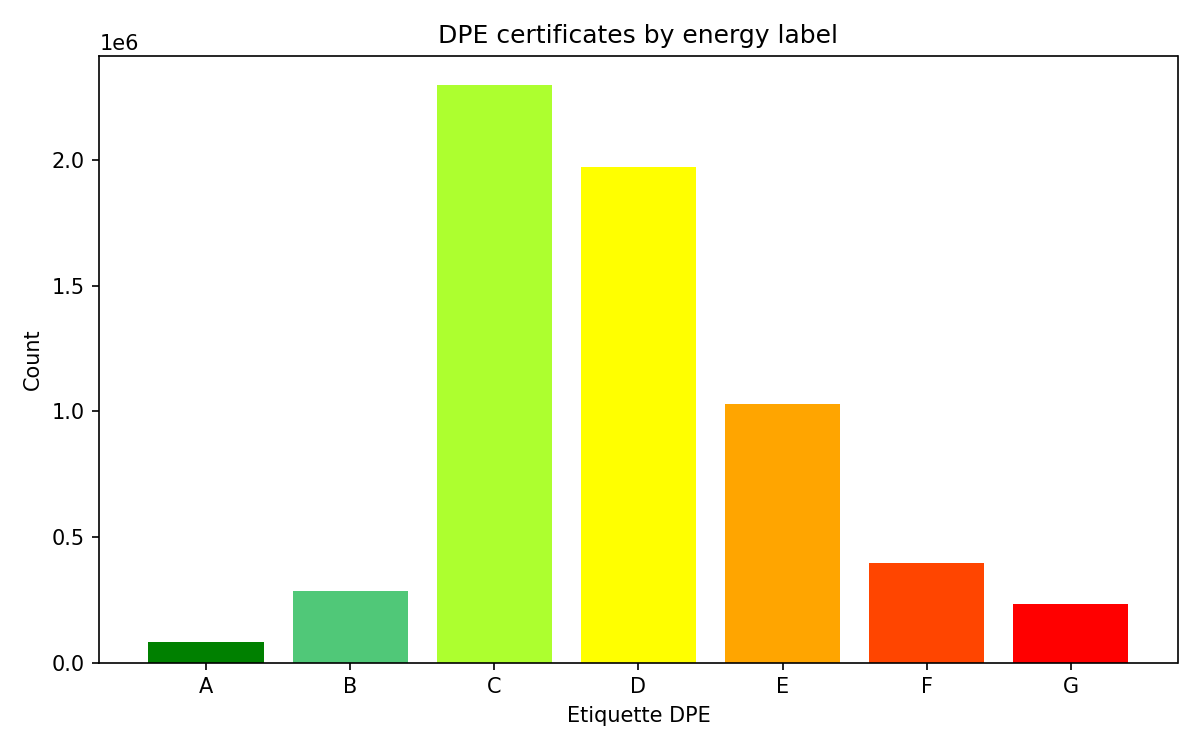
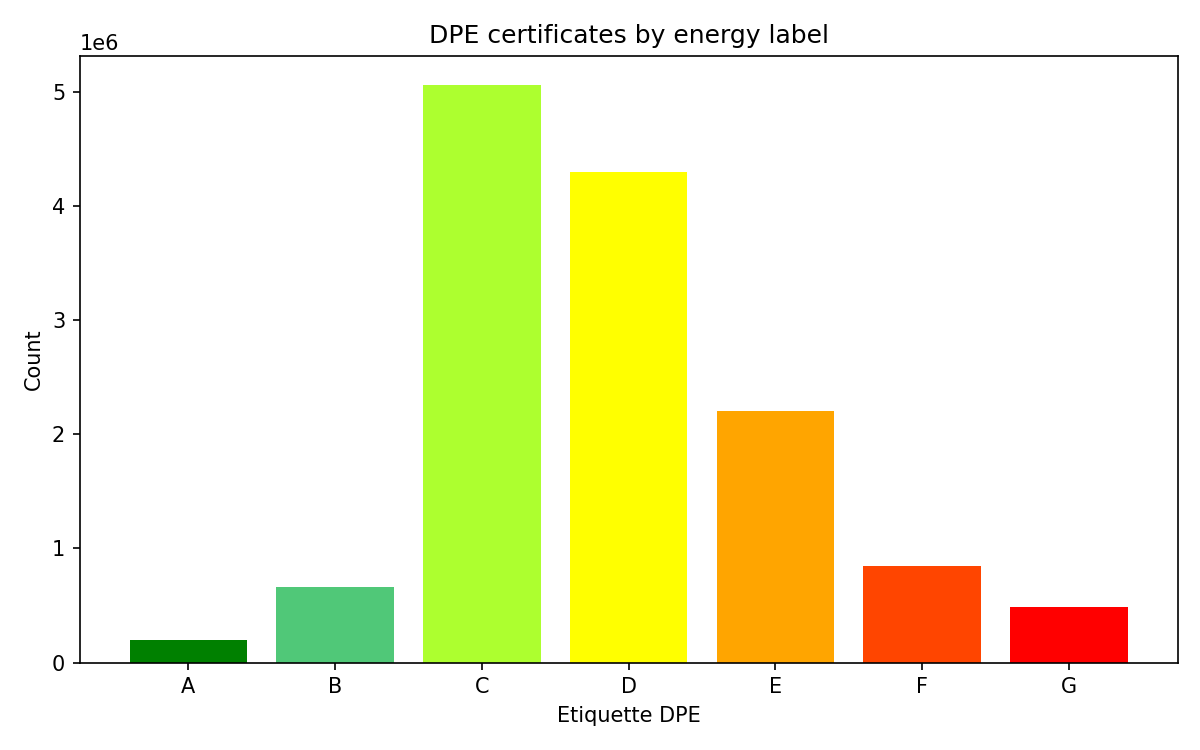
Added % view per month

diff --git a/visualize.py b/visualize.py
@@ -1,7 +1,7 @@
 import matplotlib.pyplot as plt
 import pandas as pd
 
-df = pd.read_csv('/home/onyxia/work/dpe_2021_2024_partial.csv')
+df = pd.read_csv('/home/onyxia/work/dpe_2021_2026.csv')
 
 print(df.columns)
 
@@ -78,13 +78,13 @@ plt.show()
 fig, ax = plt.subplots(figsize=(16, 5))
 monthly_label.plot(kind="bar", stacked=True, ax=ax, color=colors, width=0.8)
 
-ax.set_title("DPE certificates issued per month by energy label")
+ax.set_title("DPE certificates issued per month by energy label as %")
 ax.set_xlabel("Month")
 ax.set_ylabel("Count")
 ax.legend(title="Etiquette DPE", bbox_to_anchor=(1.01, 1), loc="upper left")
 plt.xticks(rotation=45, ha="right")
 plt.tight_layout()
-plt.savefig("dpe_monthly_by_label.png", dpi=150)
+plt.savefig("dpe_monthly_by_label_%.png", dpi=150)
 plt.show()
 
 fig, ax = plt.subplots(figsize=(16, 5))
